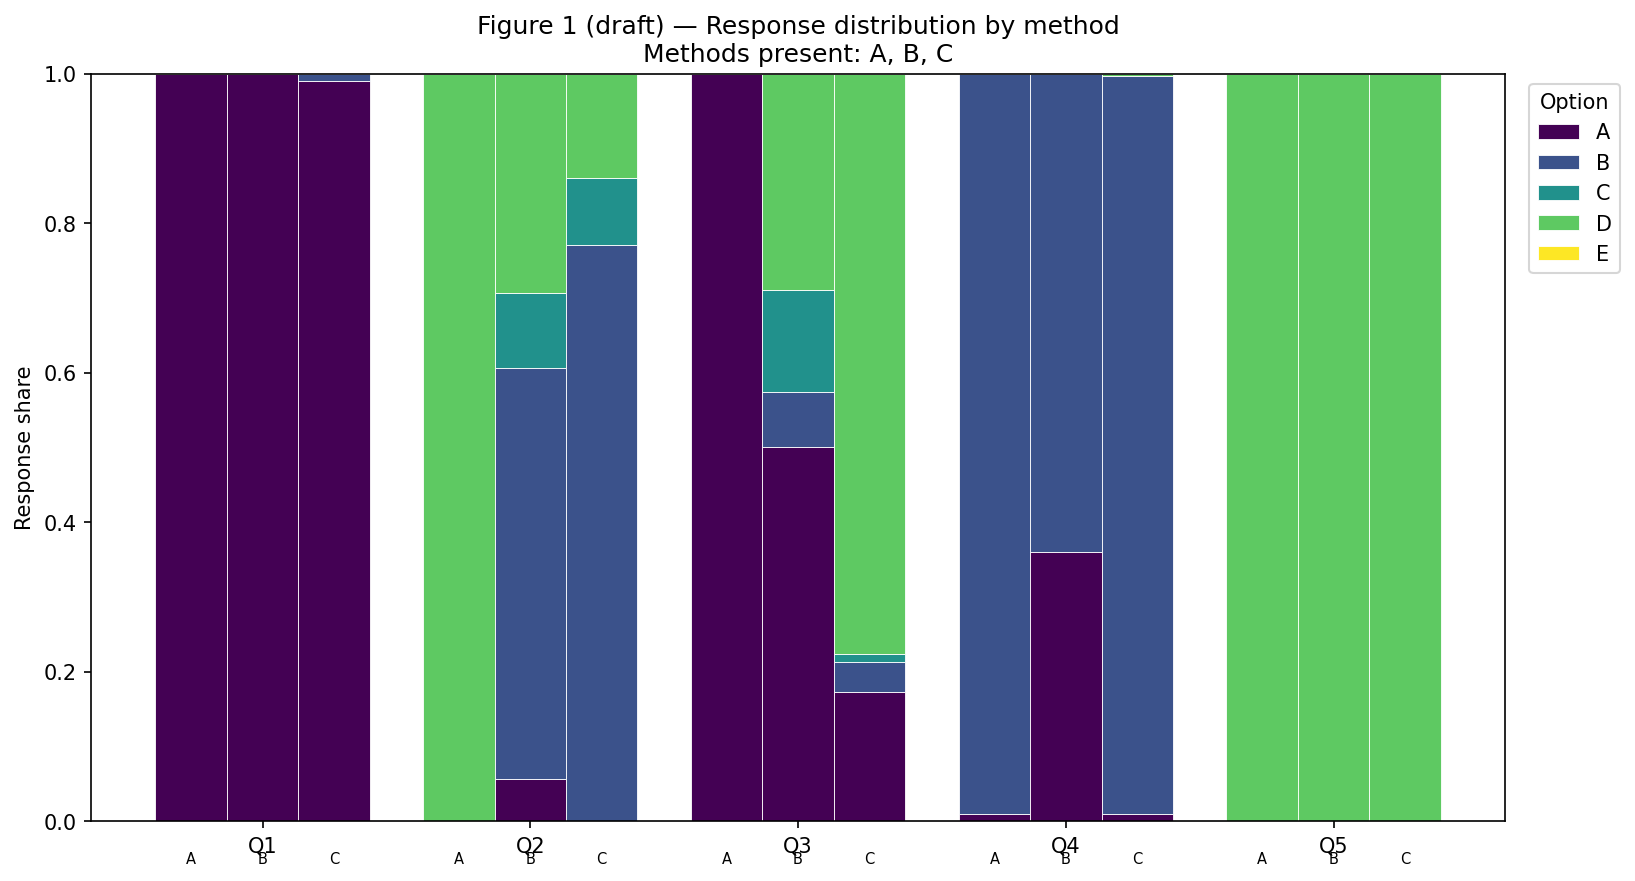
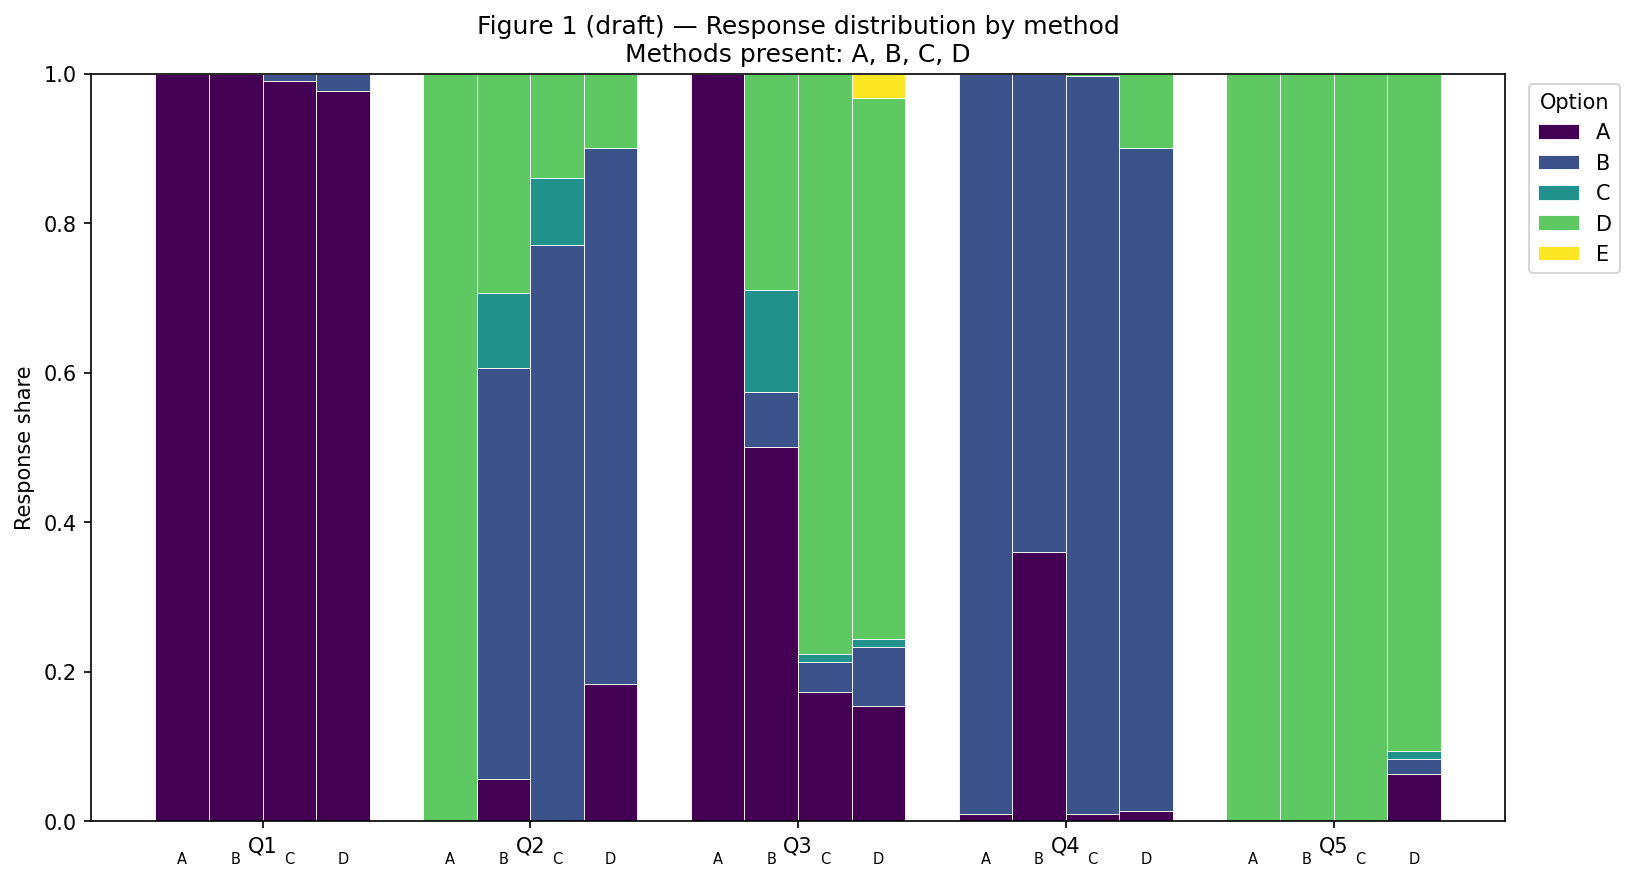
feat: add Method D behavioral grounding; run full; complete Figure 1 (A/B/C/D)

diff --git a/src/personas.py b/src/personas.py
@@ -17,6 +17,7 @@ from concurrent.futures import ThreadPoolExecutor
 from pathlib import Path
 
 import pandas as pd
+import yaml
 
 ROOT = Path(__file__).resolve().parent.parent
 DATA = ROOT / "data"
@@ -129,4 +130,117 @@ def method_c(
             "narrative": narr,
         }
         for i, (profile, narr) in enumerate(zip(profiles, narratives))
+    ]
+
+
+# Human-readable phrasing for each sampled behavioral trait, injected into the
+# Method D narrative-generation prompt so the backstory anchors to the fact.
+BEHAVIOR_PHRASES = {
+    "ai_awareness": {
+        "heard_a_lot": "She has heard or read a lot about AI.",
+        "heard_a_little": "She has heard or read a little about AI.",
+        "nothing_at_all": "She has heard nothing at all about AI.",
+    },
+    "ai_usage_frequency": {
+        "almost_constantly_or_several_a_day": "She interacts with AI almost constantly or several times a day.",
+        "about_once_a_day": "She interacts with AI about once a day.",
+        "several_times_a_week": "She interacts with AI several times a week.",
+        "less_often": "She interacts with AI less than several times a week — rarely.",
+    },
+    "ai_sentiment": {
+        "more_concerned": "She feels more concerned than excited about the increased use of AI in daily life.",
+        "more_excited": "She feels more excited than concerned about the increased use of AI in daily life.",
+        "equally": "She feels equally concerned and excited about the increased use of AI in daily life.",
+    },
+    "willingness_ai_assist": {
+        "a_lot": "She would let AI assist a lot with her day-to-day tasks.",
+        "a_little": "She would let AI assist a little with her day-to-day tasks.",
+        "not_at_all": "She would not let AI assist with her day-to-day tasks at all.",
+    },
+    "control_attitudes": {
+        "want_more_control": "She would like more control over how AI is used in her life.",
+        "comfortable": "She is comfortable with the amount of control she has over how AI is used in her life.",
+        "not_sure": "She is not sure how she feels about the control she has over how AI is used in her life.",
+    },
+}
+
+
+def load_behaviors(path: Path = DATA / "behaviors_women.yaml") -> dict[str, tuple]:
+    """Read the Pew behavioral distributions into {measure: (categories, weights)}.
+
+    Uses the directly measured `women` block for each measure.
+    """
+    with open(path) as f:
+        data = yaml.safe_load(f)
+    out: dict[str, tuple] = {}
+    for measure, block in data.items():
+        w = block["women"]
+        out[measure] = (list(w.keys()), [float(v) for v in w.values()])
+    return out
+
+
+def sample_behaviors(n: int, seed: int = DEFAULT_SEED) -> list[dict]:
+    """Sample n personas' behavioral traits from the Pew women distributions.
+
+    Each measure is sampled independently (published marginals, not behaviour x
+    demographic crosstabs — documented limitation). Uses a distinct RNG stream
+    from the demographic sampling so the two are reproducible and aligned by
+    index without interfering.
+    """
+    rng = random.Random(seed + 1)
+    behaviors = load_behaviors()
+    return [
+        {m: rng.choices(cats, weights=w, k=1)[0] for m, (cats, w) in behaviors.items()}
+        for _ in range(n)
+    ]
+
+
+def method_d(
+    n: int,
+    client,
+    seed: int = DEFAULT_SEED,
+    max_tokens: int = 300,
+    max_workers: int = 8,
+) -> list[dict]:
+    """Method D — behaviorally grounded personas.
+
+    Take the same seeded demographic profiles as Methods B and C, layer on
+    behavioral traits sampled from Pew's published women distributions, and
+    generate a narrative anchored to those empirical behavioral facts. The
+    narrative is the survey system prompt; the sampled traits are persisted so
+    the behavioral-consistency check can compare stated behavior to answers.
+    """
+    profiles = sample_profiles(n, seed)
+    behaviors = sample_behaviors(n, seed)
+    gen_template = (PROMPTS / "method_d.txt").read_text()
+    persona_template = (PROMPTS / "method_c_persona.txt").read_text()
+
+    def render_gen(profile: dict, traits: dict) -> str:
+        fields = dict(profile)
+        fields["b_awareness"] = BEHAVIOR_PHRASES["ai_awareness"][traits["ai_awareness"]]
+        fields["b_usage"] = BEHAVIOR_PHRASES["ai_usage_frequency"][traits["ai_usage_frequency"]]
+        fields["b_sentiment"] = BEHAVIOR_PHRASES["ai_sentiment"][traits["ai_sentiment"]]
+        fields["b_willingness"] = BEHAVIOR_PHRASES["willingness_ai_assist"][traits["willingness_ai_assist"]]
+        fields["b_control"] = BEHAVIOR_PHRASES["control_attitudes"][traits["control_attitudes"]]
+        return gen_template.format(**fields)
+
+    def generate(pt: tuple) -> str:
+        profile, traits = pt
+        return client.complete(render_gen(profile, traits), max_tokens=max_tokens).strip()
+
+    with ThreadPoolExecutor(max_workers=max_workers) as ex:
+        narratives = list(ex.map(generate, zip(profiles, behaviors)))
+
+    return [
+        {
+            "persona_id": i,
+            "method": "D",
+            "system": persona_template.format(narrative=narr),
+            "profile": profile,
+            "traits": traits,
+            "narrative": narr,
+        }
+        for i, (profile, traits, narr) in enumerate(
+            zip(profiles, behaviors, narratives)
+        )
     ]

diff --git a/src/run.py b/src/run.py
@@ -73,6 +73,7 @@ METHOD_BUILDERS = {
     "method_a": (personas.method_a, "method_a.txt"),
     "method_b": (personas.method_b, "survey_question.txt"),
     "method_c": (personas.method_c, "survey_question.txt"),
+    "method_d": (personas.method_d, "survey_question.txt"),
 }
 
 
